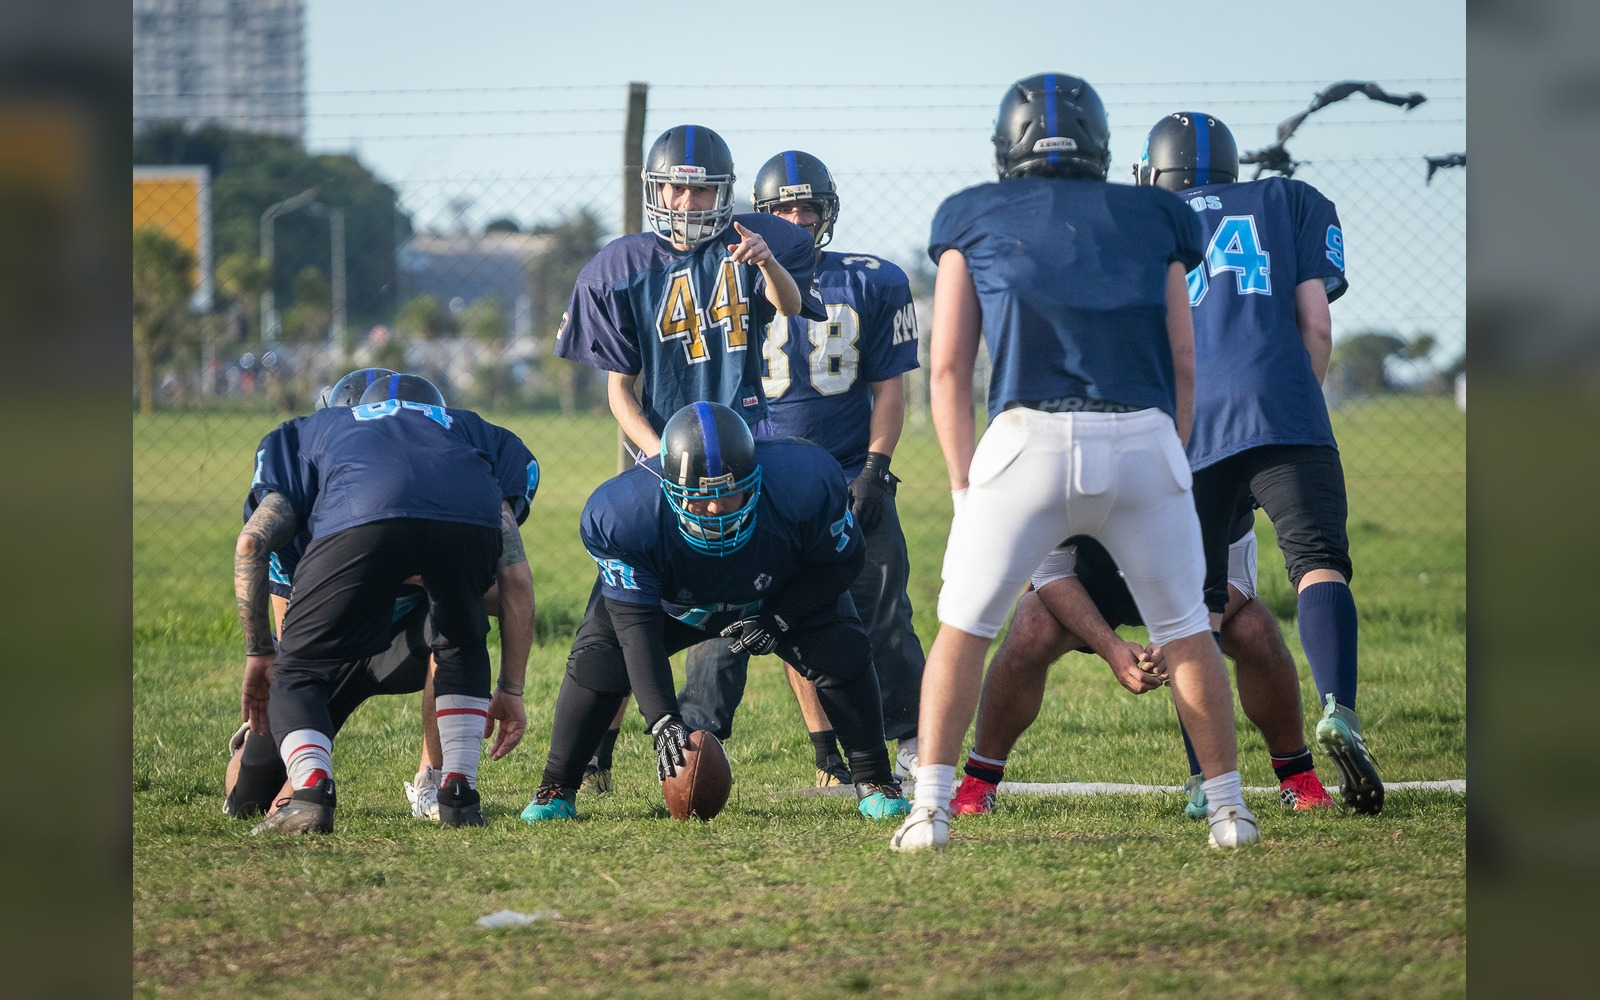
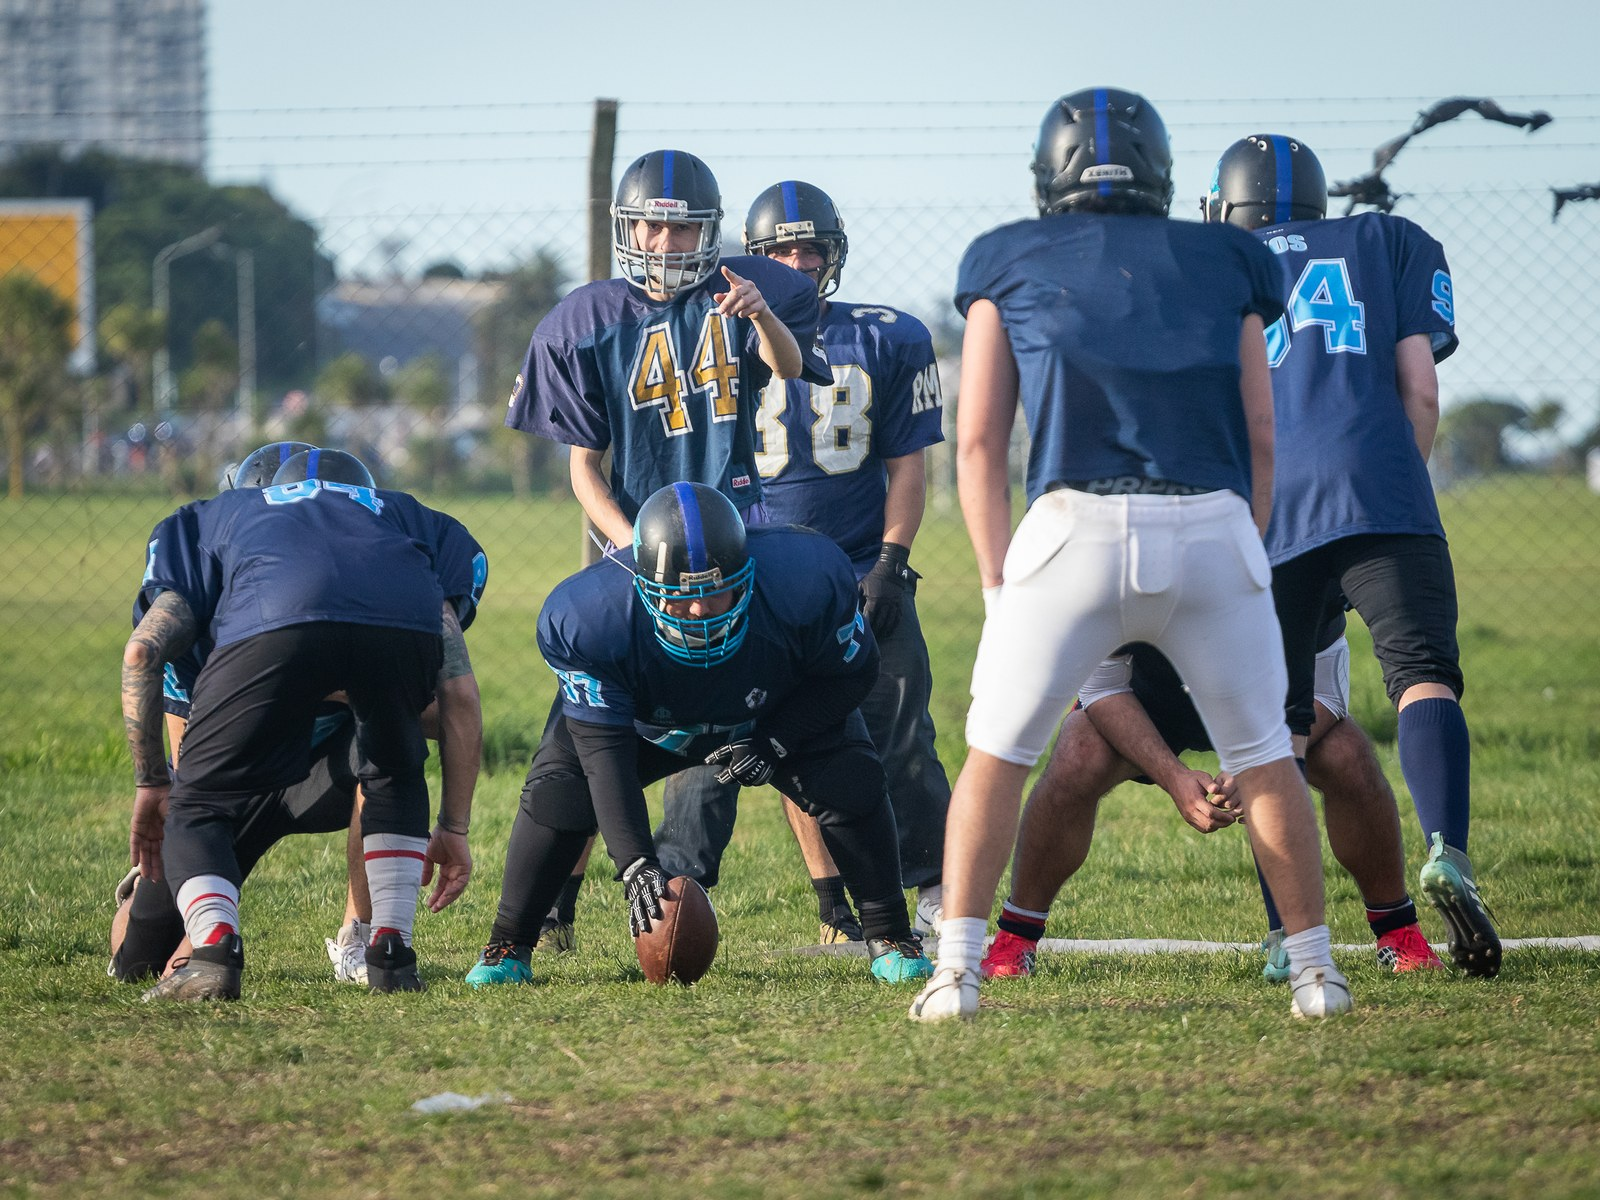
Quitar margenes del carrusel de modalidad

diff --git a/frontend/src/pages/Inicio.jsx b/frontend/src/pages/Inicio.jsx
@@ -245,16 +245,14 @@ export default function Inicio() {
               </article>
             ))}
           </div>
-          <div className="mt-8 grid lg:grid-cols-[0.9fr_1.1fr] gap-6 items-stretch">
-            <div className="relative overflow-hidden rounded-xl border border-accent/20 bg-primary/70 min-h-[280px]">
-              {modalidadSlides.map((slide, index) => (
-                <img
-                  key={slide}
-                  src={slide}
-                  alt={modalidadActiva.title}
-                  className={`absolute inset-0 h-full w-full object-contain transition-opacity duration-700 ${modalidadSlide === index ? 'opacity-100' : 'opacity-0'}`}
-                />
-              ))}
+          <div className="mt-8 grid lg:grid-cols-[0.9fr_1.1fr] gap-6 items-start">
+            <div className="relative overflow-hidden rounded-xl border border-accent/20 bg-primary/70">
+              <img
+                key={modalidadSlides[modalidadSlide]}
+                src={modalidadSlides[modalidadSlide]}
+                alt={modalidadActiva.title}
+                className="block w-full h-auto"
+              />
               {modalidadSlides.length > 1 && (
                 <>
                   <button
